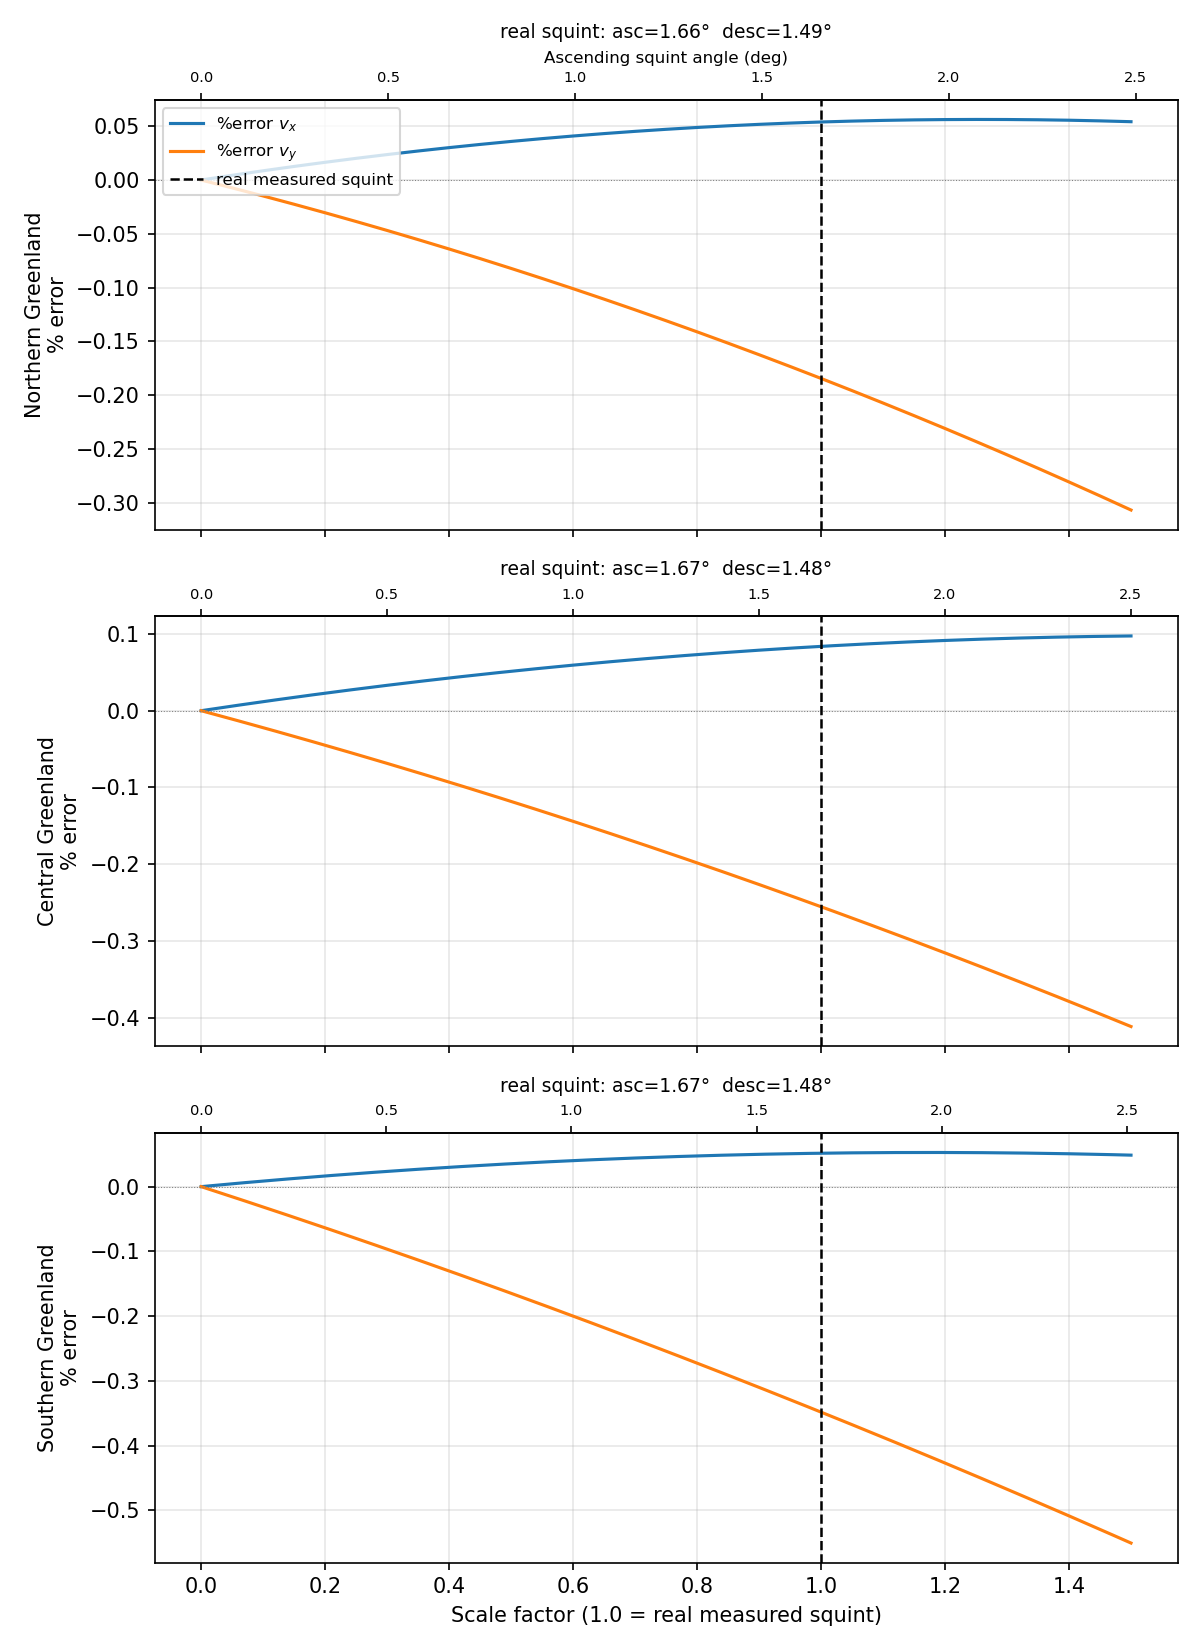
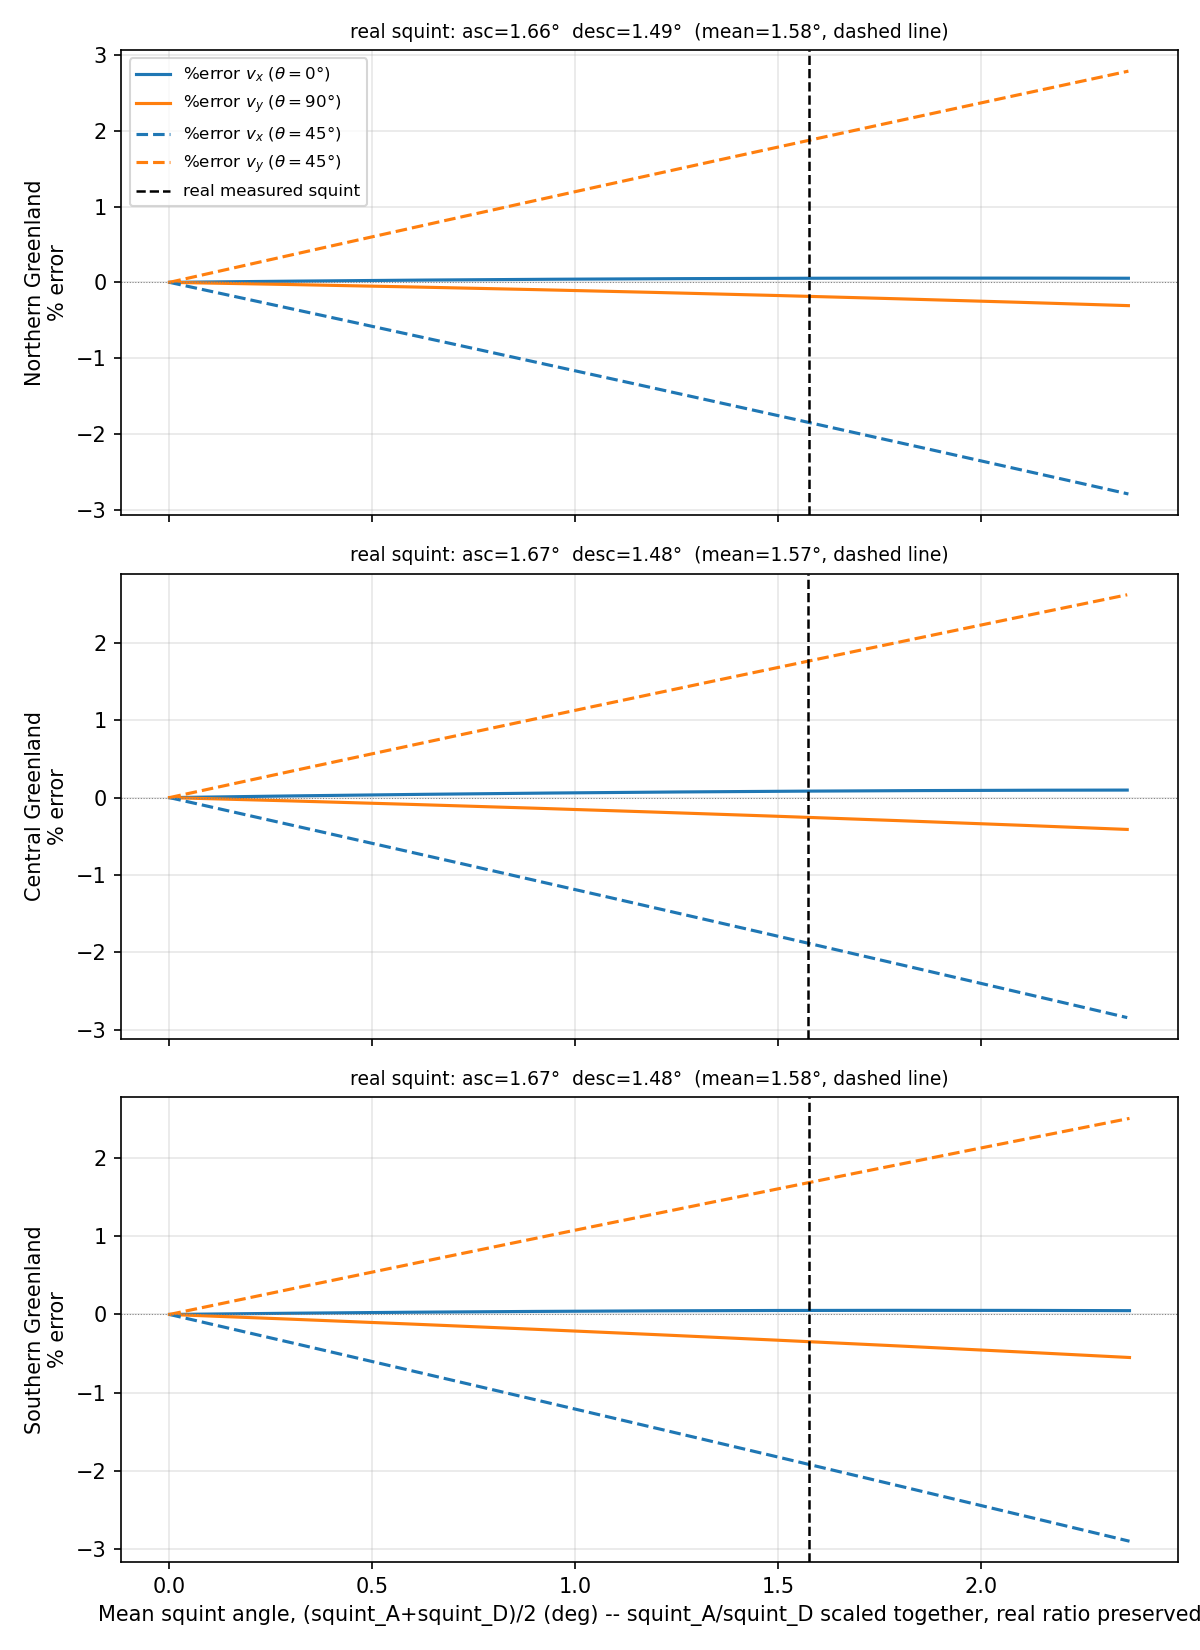
figure updates

diff --git a/nisarerrors/plotSquintError.py b/nisarerrors/plotSquintError.py
@@ -48,19 +48,22 @@ velocity v_true, mosaic3d computes
 v_computed = A0 @ A_true^-1 @ v_true = M @ v_true.
 
 Two figures are generated:
-  1. (--output) %error in vx/vy for the two pure-axis reference cases
-     (true velocity = pure x-hat or pure y-hat), swept over a scale factor
-     applied to each region's own real measured (squint_A, squint_D) pair
-     (scale=1.0 = real measured values).
-  2. (--outputByDirection) at the real measured squint (scale=1.0), the
+  1. (--output) %error in vx/vy at theta=0/90/45 deg (see below), swept over
+     mean squint angle (deg, x-axis) -- squint_A and squint_D are scaled
+     together so each region's own real measured ratio between them is
+     preserved at every point on the curve, up to 1.5x the real values.
+  2. (--outputByDirection) at the real measured squint, the
      error decomposed as a function of true flow ORIENTATION theta (0-360
-     deg): speed % error (oscillates with theta, period 180 deg) and
-     direction error in degrees (nearly CONSTANT regardless of theta,
-     ~1.5-1.7 deg for all 3 regions). The near-constancy of the direction
-     error is because M = A0 @ A_true^-1 is dominated by its antisymmetric
-     part (M[0,1] ~= -M[1,0], much larger than M[0,0]-1 or M[1,1]-1) --
-     i.e. M is close to a pure small-angle rotation matrix, and a rotation
-     rotates every input vector by the same angle regardless of its
+     deg). Left column: speed % error, plus vx/vy % error (each component's
+     (computed - true) error, normalized by the true speed -- same
+     normalization as speed % error, well-defined even where a component
+     passes through zero) -- all three oscillate with theta (period 180
+     deg). Right column: direction error in degrees (nearly CONSTANT
+     regardless of theta, ~1.5-1.7 deg for all 3 regions). The near-constancy
+     of the direction error is because M = A0 @ A_true^-1 is dominated by its
+     antisymmetric part (M[0,1] ~= -M[1,0], much larger than M[0,0]-1 or
+     M[1,1]-1) -- i.e. M is close to a pure small-angle rotation matrix, and a
+     rotation rotates every input vector by the same angle regardless of its
      direction. See Documents/plotSquintError.md for the full writeup.
 
 Usage:
@@ -144,20 +147,36 @@ def trueMatrix(H_A0, H_D0, phi_real, squintA, squintD, scale):
     return computeA(alpha_t, beta_t)
 
 
+def errorAtTheta(M, thetaDeg):
+    """Speed/vx/vy % error and direction error (deg) of M @ vhat(thetaDeg), for a
+    single true-flow orientation. vx/vy % error is (computed - true) component,
+    normalized by the true SPEED (always 1.0, since vhat is a unit vector) rather
+    than by the true component itself -- the same normalization speed % error
+    already uses, and one that stays well-defined as either true component passes
+    through zero. At thetaDeg=0 this reduces to (M[0,0]-1)*100 (Figure 1's pure-x
+    case); at thetaDeg=90, (M[1,1]-1)*100 (Figure 1's pure-y case)."""
+    th = np.radians(thetaDeg)
+    vhat = np.array([np.cos(th), np.sin(th)])
+    vcomp = M @ vhat
+    speedErrPct = (np.linalg.norm(vcomp) - 1.0) * 100.0
+    vxErrPct = (vcomp[0] - vhat[0]) * 100.0
+    vyErrPct = (vcomp[1] - vhat[1]) * 100.0
+    diff = np.degrees(np.arctan2(vcomp[1], vcomp[0]) - th)
+    angErrDeg = ((diff + 180) % 360) - 180   # wrap to (-180, 180]
+    return speedErrPct, vxErrPct, vyErrPct, angErrDeg
+
+
 def errorByDirection(M, nTheta=N_THETA_POINTS):
-    """Speed % error and direction error (deg) of M @ vhat(theta), swept over
-    every true-flow orientation theta (0-360 deg)."""
+    """Speed/vx/vy % error and direction error (deg) of M @ vhat(theta), swept
+    over every true-flow orientation theta (0-360 deg) -- see errorAtTheta."""
     thetaDeg = np.linspace(0, 360, nTheta)
-    thetas = np.radians(thetaDeg)
-    speedErrPct = np.empty_like(thetas)
-    angErrDeg = np.empty_like(thetas)
-    for i, th in enumerate(thetas):
-        vhat = np.array([np.cos(th), np.sin(th)])
-        vcomp = M @ vhat
-        speedErrPct[i] = (np.linalg.norm(vcomp) - 1.0) * 100.0
-        diff = np.degrees(np.arctan2(vcomp[1], vcomp[0]) - th)
-        angErrDeg[i] = ((diff + 180) % 360) - 180   # wrap to (-180, 180]
-    return thetaDeg, speedErrPct, angErrDeg
+    speedErrPct = np.empty_like(thetaDeg)
+    vxErrPct = np.empty_like(thetaDeg)
+    vyErrPct = np.empty_like(thetaDeg)
+    angErrDeg = np.empty_like(thetaDeg)
+    for i, th in enumerate(thetaDeg):
+        speedErrPct[i], vxErrPct[i], vyErrPct[i], angErrDeg[i] = errorAtTheta(M, th)
+    return thetaDeg, speedErrPct, vxErrPct, vyErrPct, angErrDeg
 
 
 def main():
@@ -183,59 +202,73 @@ def main():
         A0, H_A0, H_D0, phi_real, squintA_real, squintD_real = regionGeometry(
             label, relGeojsonA, relGeojsonD, args.projectDir)
 
+        # Sweep both squint_A and squint_D together, scaled by the same factor,
+        # so their real measured ratio (the actual asc/desc asymmetry) is
+        # preserved at every point -- but plot directly against the resulting
+        # mean squint angle in degrees rather than the dimensionless factor
+        # itself, since that's what's physically varying and needs no
+        # secondary axis or title lookup to interpret.
+        meanSquintReal = 0.5 * (squintA_real + squintD_real)
+        meanSquintDeg = scales * meanSquintReal
+
         pctErrVx = np.empty_like(scales)
         pctErrVy = np.empty_like(scales)
+        pctErrVx45 = np.empty_like(scales)
+        pctErrVy45 = np.empty_like(scales)
         for i, scale in enumerate(scales):
             A_true = trueMatrix(H_A0, H_D0, phi_real, squintA_real, squintD_real, scale)
             M = A0 @ np.linalg.inv(A_true)
-            pctErrVx[i] = (M[0, 0] - 1.0) * 100.0
-            pctErrVy[i] = (M[1, 1] - 1.0) * 100.0
+            _, pctErrVx[i], _, _ = errorAtTheta(M, 0.0)
+            _, _, pctErrVy[i], _ = errorAtTheta(M, 90.0)
+            _, pctErrVx45[i], pctErrVy45[i], _ = errorAtTheta(M, 45.0)
 
         print(f'{label}: squint_asc={squintA_real:.4f} deg  squint_desc={squintD_real:.4f} deg  '
               f'%error_vx range=[{pctErrVx.min():.3f},{pctErrVx.max():.3f}]  '
-              f'%error_vy range=[{pctErrVy.min():.3f},{pctErrVy.max():.3f}]')
+              f'%error_vy range=[{pctErrVy.min():.3f},{pctErrVy.max():.3f}]  '
+              f'%error_vx(45deg) range=[{pctErrVx45.min():.3f},{pctErrVx45.max():.3f}]  '
+              f'%error_vy(45deg) range=[{pctErrVy45.min():.3f},{pctErrVy45.max():.3f}]')
 
         ax = axes1[row]
-        ax.plot(scales, pctErrVx, label=r'$\%$error $v_x$', color='C0')
-        ax.plot(scales, pctErrVy, label=r'$\%$error $v_y$', color='C1')
+        ax.plot(meanSquintDeg, pctErrVx, label=r'$\%$error $v_x$ ($\theta{=}0°$)', color='C0')
+        ax.plot(meanSquintDeg, pctErrVy, label=r'$\%$error $v_y$ ($\theta{=}90°$)', color='C1')
+        ax.plot(meanSquintDeg, pctErrVx45, label=r'$\%$error $v_x$ ($\theta{=}45°$)', color='C0', ls='--')
+        ax.plot(meanSquintDeg, pctErrVy45, label=r'$\%$error $v_y$ ($\theta{=}45°$)', color='C1', ls='--')
         ax.axhline(0.0, color='gray', lw=0.5, ls=':')
-        ax.axvline(1.0, color='k', lw=1.2, ls='--',
+        ax.axvline(meanSquintReal, color='k', lw=1.2, ls='--',
                   label='real measured squint' if row == 0 else None)
         ax.set_ylabel(f'{label}\n% error')
         ax.grid(alpha=0.3)
         if row == 0:
             ax.legend(fontsize=8, loc='upper left')
-        ax.set_title(f'real squint: asc={squintA_real:.2f}°  desc={squintD_real:.2f}°', fontsize=9)
-
-        def scaleToSquintDeg(s, _sq=squintA_real):
-            return s * _sq
-
-        def squintDegToScale(deg, _sq=squintA_real):
-            return deg / _sq
-
-        sec = ax.secondary_xaxis('top', functions=(scaleToSquintDeg, squintDegToScale))
-        sec.set_xlabel('Ascending squint angle (deg)' if row == 0 else '', fontsize=8)
-        sec.tick_params(labelsize=7)
+        ax.set_title(f'real squint: asc={squintA_real:.2f}°  desc={squintD_real:.2f}°  '
+                    f'(mean={meanSquintReal:.2f}°, dashed line)', fontsize=9)
 
         # Second figure: error decomposed by true-flow orientation, at the real measured squint
         M_real = A0 @ np.linalg.inv(
             trueMatrix(H_A0, H_D0, phi_real, squintA_real, squintD_real, 1.0))
-        thetaDeg, speedErrPct, angErrDeg = errorByDirection(M_real)
+        thetaDeg, speedErrPct, vxErrPct, vyErrPct, angErrDeg = errorByDirection(M_real)
 
         print(f'  speed %err=[{speedErrPct.min():.3f},{speedErrPct.max():.3f}]  '
+              f'vx %err=[{vxErrPct.min():.3f},{vxErrPct.max():.3f}]  '
+              f'vy %err=[{vyErrPct.min():.3f},{vyErrPct.max():.3f}]  '
               f'direction err=[{angErrDeg.min():.3f},{angErrDeg.max():.3f}] deg')
 
         ax1, ax2 = axes2[row]
-        ax1.plot(thetaDeg, speedErrPct, color='C0')
+        ax1.plot(thetaDeg, speedErrPct, label='speed' if row == 0 else None, color='C0')
+        ax1.plot(thetaDeg, vxErrPct, label=r'$v_x$' if row == 0 else None, color='C1')
+        ax1.plot(thetaDeg, vyErrPct, label=r'$v_y$' if row == 0 else None, color='C3')
         ax1.axhline(0, color='gray', lw=0.5, ls=':')
-        ax1.set_ylabel(f'{label}\nspeed % error')
+        ax1.set_ylabel(f'{label}\n% error')
         ax1.grid(alpha=0.3)
+        if row == 0:
+            ax1.legend(fontsize=8, loc='upper right')
         ax2.plot(thetaDeg, angErrDeg, color='C2')
         ax2.axhline(0, color='gray', lw=0.5, ls=':')
         ax2.set_ylabel('direction error (deg)')
         ax2.grid(alpha=0.3)
 
-    axes1[-1].set_xlabel('Scale factor (1.0 = real measured squint)')
+    axes1[-1].set_xlabel('Mean squint angle, (squint_A+squint_D)/2 (deg) -- '
+                         'squint_A/squint_D scaled together, real ratio preserved')
     fig1.tight_layout()
     fig1.savefig(args.output, dpi=150)
     print(f'Written: {args.output}')

diff --git a/Documents/plotSquintError.md b/Documents/plotSquintError.md
@@ -135,25 +135,37 @@ is close to, but not exactly, $`R\big((\text{squint}_A+\text{squint}_D)/2\big)`$
 
 ## Figure 1 — error vs. squint magnitude, pure-axis cases
 
-![squint error vs scale factor](images/squintError.png)
+![squint error vs mean squint angle](images/squintError.png)
 
-**Figure 1.** One panel per region (North/Central/South). Each panel sweeps a scale factor (x-axis, 0 to 1.5)
-applied to that region's measured $`(\text{squint}_A,\text{squint}_D)`$ pair — 1.0 reproduces the
-measured values exactly, preserving the real ascending/descending asymmetry, while other values
-along the x-axis show how the error would change if the true squint were smaller or larger than
-measured. The two curves plotted are the "pure-axis" reference cases from §2: $`\%\text{error}_{v_x}`$
-assumes the true velocity is purely along $\hat x$ (so it isolates $`M_{00}`$, the error in
-recovering an $x$-directed flow), and $`\%\text{error}_{v_y}`$ assumes the true velocity is purely
-along $\hat y$ (isolating $`M_{11}`$) — two specific, tractable special cases standing in for the
-general, orientation-dependent error of Figure 2. At the measured squint (scale = 1.0):
+**Figure 1.** One panel per region (North/Central/South). Each panel sweeps the mean squint angle
+(x-axis, degrees) from 0 up to 1.5× its real measured value — $`\text{squint}_A`$ and
+$`\text{squint}_D`$ are scaled together by the same factor at every point, so the real
+ascending/descending asymmetry (their ratio) is preserved throughout, not just at the real value
+itself (marked by the vertical dashed line, annotated with that region's actual
+$`\text{squint}_A`$/$`\text{squint}_D`$ in the title). Solid curves are the "pure-axis" reference
+cases from §2: $`\%\text{error}_{v_x}`$ ($\theta{=}0°$) assumes the true velocity is purely along
+$\hat x$ (so it isolates $`M_{00}`$, the error in recovering an $x$-directed flow), and
+$`\%\text{error}_{v_y}`$ ($\theta{=}90°$) assumes the true velocity is purely along $\hat y$
+(isolating $`M_{11}`$). These two are deceptively small, because at $\theta{=}0°$ only $M_{00}$
+contributes to $v_x$ error and $M_{11}$ never enters at all (and vice versa at $\theta{=}90°$) —
+each pure-axis case structurally hides the off-diagonal (cross-axis leakage) term that the *other*
+component would pick up. Dashed curves add a third orientation, $\theta{=}45°$ (true velocity
+equally split between $\hat x$ and $\hat y$), where *both* the diagonal and off-diagonal terms of
+$\mathbf M$ contribute to each component's error — this is a single, fixed-orientation slice
+through the same full sweep Figure 2 shows continuously, and it is consistently several times
+larger than either pure-axis curve. At the real measured squint:
 
-| Region | %error $`v_x`$ | %error $`v_y`$ |
-|---|---|---|
-| North | +0.05% | −0.18% |
-| Central | +0.08% | −0.26% |
-| South | +0.05% | −0.36% |
+| Region | %error $`v_x`$ ($\theta{=}0°$) | %error $`v_y`$ ($\theta{=}90°$) | %error $`v_x`$ ($\theta{=}45°$) | %error $`v_y`$ ($\theta{=}45°$) |
+|---|---|---|---|---|
+| North | +0.05% | −0.18% | −1.85% | +1.87% |
+| Central | +0.08% | −0.26% | −1.88% | +1.76% |
+| South | +0.05% | −0.35% | −1.92% | +1.69% |
 
-All sub-percent; $`v_y`$ is consistently more sensitive than $`v_x`$ at these crossing geometries.
+The pure-axis cases are sub-percent; the 45° case is not — it's roughly $`\sin(\text{mean
+squint})`$, an order of magnitude larger, for the same reason the off-diagonal terms show up large
+in Figure 2 away from $\theta=0°/90°$. $`v_y`$ is consistently more sensitive than $`v_x`$ in the
+pure-axis cases at these crossing geometries; at 45° the two are comparable, since both now draw
+on the same mix of diagonal and off-diagonal terms.
 
 ## Figure 2 — error vs. true flow direction, at the measured squint
 
@@ -163,9 +175,19 @@ All sub-percent; $`v_y`$ is consistently more sensitive than $`v_x`$ at these cr
 cases, this figure fixes the squint at its measured value and instead sweeps every possible true
 flow direction $\theta$ (x-axis, 0°–360°, the angle of $`\vec v_{\text{true}}`$ counterclockwise
 from $\hat x$) to show the full, orientation-dependent error rather than just the two special
-cases. Left column: speed error, $`(\lVert\mathbf{M}\hat v(\theta)\rVert-1)\times100`$ — how much
-the computed speed is off, regardless of direction — which oscillates sinusoidally with $\theta$
-(period $180°$), ranging from about $-0.17\%/+0.12\%$ (North) to $-0.31\%/+0.09\%$ (South). Right
+cases. Left column: three curves, all normalized by the true *speed* (so they stay well-defined
+even where a component's own true value passes through zero) —
+speed error, $`(\lVert\mathbf{M}\hat v(\theta)\rVert-1)\times100`$, how much the computed speed is
+off regardless of direction; and $`v_x`$/$`v_y`$ error, $`(\mathbf{M}\hat v(\theta) -
+\hat v(\theta))_{x,y}\times100`$, the error in each Cartesian component individually. All three
+oscillate sinusoidally with $\theta$ (period $180°$ for speed, $v_x$ and $v_y$ 90° out of phase
+with each other). Speed error stays small — about $-0.17\%/+0.12\%$ (North) to
+$-0.31\%/+0.09\%$ (South) — because $\mathbf M$ is close to a pure rotation, which barely changes
+a vector's *norm*. The individual components are not protected the same way: wherever the true
+flow direction makes one component near zero, a rotation by the squint angle still mixes in a
+piece of the other component at full strength, so $v_x$/$v_y$ error swings about
+$\pm2.7\%$–$\pm2.8\%$ for all three regions — roughly $\sin(\text{mean squint})$, an order of
+magnitude larger than the speed error despite coming from the same matrix $\mathbf M$. Right
 column: direction error, the angle between the computed velocity $\mathbf M\hat v(\theta)$ and the
 true direction $\hat v(\theta)$ — how much the computed flow direction is rotated away from the
 truth. This is nearly constant in $\theta$ — by the Proposition above, this is expected, since